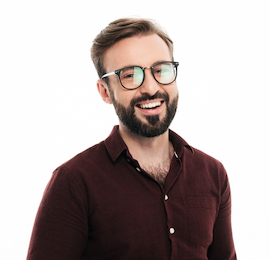
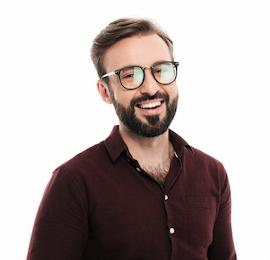
optimise img

diff --git a/index.html b/index.html
@@ -33,8 +33,8 @@
       <!-- Банер -->
       <section>
         <h1>
-          ЭФФЕКТИВНЫЕ РЕШЕНИЯ <br />
-          ДЛЯ ВАШЕГО БИЗНЕСА
+          Эффективные решения <br />
+          для вашего бизнеса
         </h1>
         <button type="button">Заказать услугу</button>
       </section>
@@ -43,28 +43,28 @@
         <h2 hidden>Особенности</h2>
         <ul>
           <li>
-            <h3>ВНИМАНИЕ К ДЕТАЛЯМ</h3>
+            <h3>Внимание к деталям</h3>
             <p>
               Идейные соображения, а также начало повседневной работы по
               формированию позиции.
             </p>
           </li>
           <li>
-            <h3>ПУНКТУАЛЬНОСТЬ</h3>
+            <h3>Пунктуальность</h3>
             <p>
               Задача организации, в особенности же рамки и место обучения кадров
               влечет за собой.
             </p>
           </li>
           <li>
-            <h3>ПЛАНИРОВАНИЕ</h3>
+            <h3>Планирование</h3>
             <p>
               Равным образом консультация с широким активом в значительной
               степени обуславливает.
             </p>
           </li>
           <li>
-            <h3>СОВРЕМЕННЫЕ ТЕХНОЛОГИИ</h3>
+            <h3>Современные технологии</h3>
             <p>
               Значимость этих проблем настолько очевидна, что реализация
               плановых заданий.
